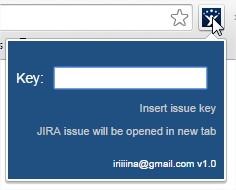
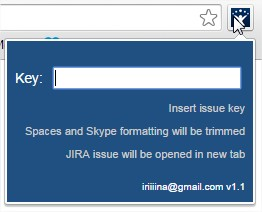
v1.1

diff --git a/js/openIssue.js b/js/openIssue.js
@@ -40,13 +40,26 @@ function removeSpaces(string) {
 	'use strict';
 
 	if (string.charAt(0) === ' ') {
-		string = string.slice(1, string.length);
+		//string = string.slice(1, string.length);
+		var temp = string.split(' ');
+		string = temp[temp.length - 1];
 	}
 
 	if (string.charAt(string.length - 1) === ' ') {
 		string = string.slice(0, string.length - 1);
 	}
 
+	return string;
+}
+
+function removeSkypeFormatting(string) {
+	'use strict';
+	
+	if (string.charAt(0) === '[') {
+		var temp = string.split(' ');
+		string = temp[temp.length - 1];
+	}
+	
 	return string;
 }
 
@@ -67,6 +80,7 @@ function openIssue() {
 		key = document.getElementById('key').value;
 		setUrl(urlOption);
 		key = removeSpaces(key);
+		key = removeSkypeFormatting(key);
 
 		if (key === '') {
 			isError = 1;

diff --git a/index.html b/index.html
@@ -22,12 +22,13 @@ Tartu, Estonia -->
 	</div>
 	<div id='keyInput'>
 		<label for='key'>Key:&nbsp;</label>
-		<input type='text' name='key' id='key' maxlength='100' size='17' autofocus />
+		<input type='text' name='key' id='key' maxlength='100' size='22' autofocus />
 		<p class='description'>Insert issue key</p>
+		<p class='description'>Spaces and Skype formatting will be trimmed</p>
 		<p class='description'>JIRA issue will be opened in new tab</p>
 	</div>
 	<div id='info'>
-		<p>iriiiina@gmail.com v1.0</p>
+		<p>iriiiina@gmail.com v1.1</p>
 	</div>
 
 </body>

diff --git a/css/style.css b/css/style.css
@@ -1,5 +1,5 @@
 body {
-	min-width: 200px;
+	min-width: 230px;
 	overflow-x: hidden;
 	background-color: #205081;
 	font-family: Arial, sans-serif;

diff --git a/README.md b/README.md
@@ -20,7 +20,7 @@ Any questions or comments are welcome! You can write me an e-mail on <a href="ma
 Source code and issue reporting is available at GitHub: <a href="https://github.com/iriiiina/JIRA-Issue-Opener">https://github.com/iriiiina/JIRA-Issue-Opener</a>
 
 <h1>Screenshots</h1>
-<img border="0" src="http://4.bp.blogspot.com/-wOo3g1ZqmrI/VBLcx6DyiNI/AAAAAAAALVs/5IIZmNS2Tsk/s1600/extension.jpg" />&nbsp;
+<img border="0" src="http://3.bp.blogspot.com/-lXr4C8njBBs/VBmYrnVGTDI/AAAAAAAALXk/k4UpCRoBFBY/s1600/extension.jpg" />&nbsp;
 <img border="0" src="http://4.bp.blogspot.com/-Wb3ckR69dJE/VBLcx2KA7uI/AAAAAAAALVw/sgnMzDi3FWA/s1600/options.jpg" height = "190px"/>
 
 <h1>Description</h1>
@@ -28,7 +28,12 @@ Basically extension simply adds your issue key to specified URL and opens it in 
 <code>URL/browse/KEY</code>
 
 Where <code>URL</code> is parameter, that user should specify in Options page (only one time after installation) and <code>KEY</code> is issue key that user inserts into extension field.
-<code>KEY</code> is case insensitive. One space in the beginning and all spaces in the end will be trimmed.
+
+<b>Features</b>
+<ul>
+<li><code>KEY</code> is case insensitive</li>
+<li>All spaces in the beginning and in the end will be trimmed</li>
+<li>Skype formatting will be trimmed: <code>[16.09.2014 13:34:34] Irina Ivanova: KEY-776</code> will be recognized as <code>KEY-776</code></li></ul>
 
 <h1>Chrome Tip</h1>
 You can configure hot keys for extension in the Google Chrome:
@@ -41,5 +46,6 @@ Now You can use it completely without a mouse!
 
 <h1>Posts About JIRA Issue Opener</h1>
 <table><tbody>
+<tr><td><em>September 17, 2014</em></td><td><a href="http://ivanova-irina.blogspot.com/2014/09/jira-issue-opener-v11.html">JIRA Issue Opener v1.1</a></td></tr>
 <tr><td><em>September 12, 2014</em></td><td><a href="http://ivanova-irina.blogspot.com/2014/09/jira-issue-opener-v10.html">JIRA Issue Opener v1.0</a></td></tr>
 </tbody></table>
